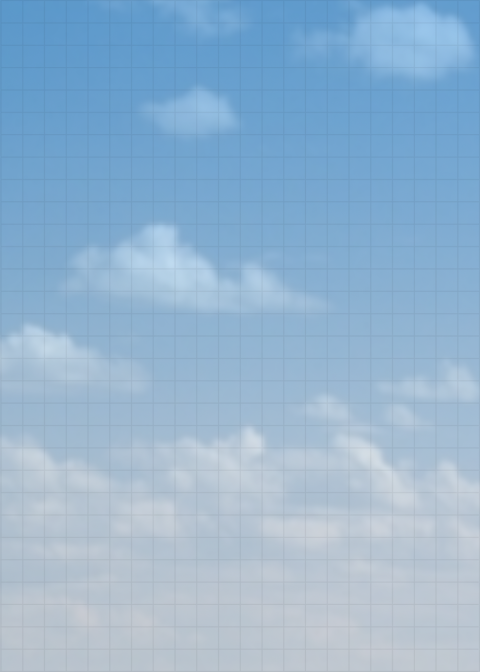
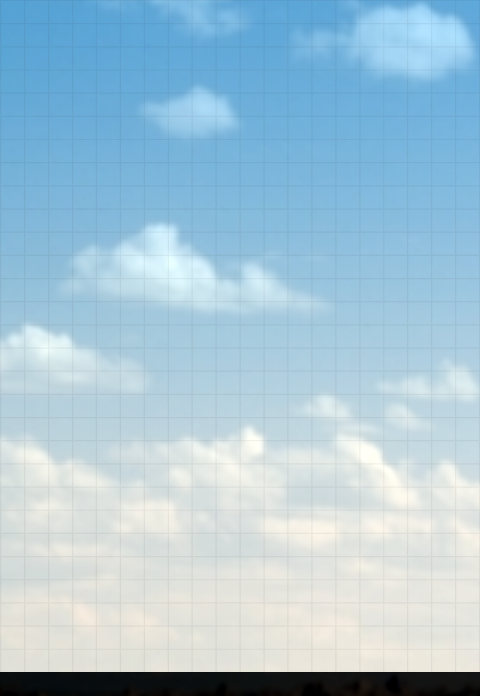
added brick generation and new background image

diff --git a/main.py b/main.py
@@ -8,7 +8,7 @@ follow along in the tutorial.
 
 
 #Import Modules
-import os, pygame, sys
+import os, pygame, sys, random
 from pygame.locals import *
 
 if not pygame.font: print 'Warning, fonts disabled'
@@ -115,6 +115,12 @@ def moveGrid(grid):
 				if not(grid[x][l-y].issand or grid[x][l-y].isbrick):
 					grid[x][l-y]=Square(x, l-y, grid[x][l-1-y].isbrick, grid[x][l-1-y].issand)
 					grid[x][l-1-y]=Square(x, l-1-y, False, False)
+
+def generateBricks(grid):
+	for x in range(0,20):
+		rand = random.randint(0,5)
+		if(rand == 1):
+			grid[x][0] = Square(x,0,True,False)
 		
 def main():
 	"""this function is called when the program starts.
@@ -181,7 +187,9 @@ def main():
 			seconds+=1
 			#put code here that happens every second!
 			moveGrid(grid)
-
+			if(seconds % random.randint(1,5) == 0):
+				generateBricks(grid)
+				
 	#Handle Input Events
 		for event in pygame.event.get():
 			if event.type == QUIT:
